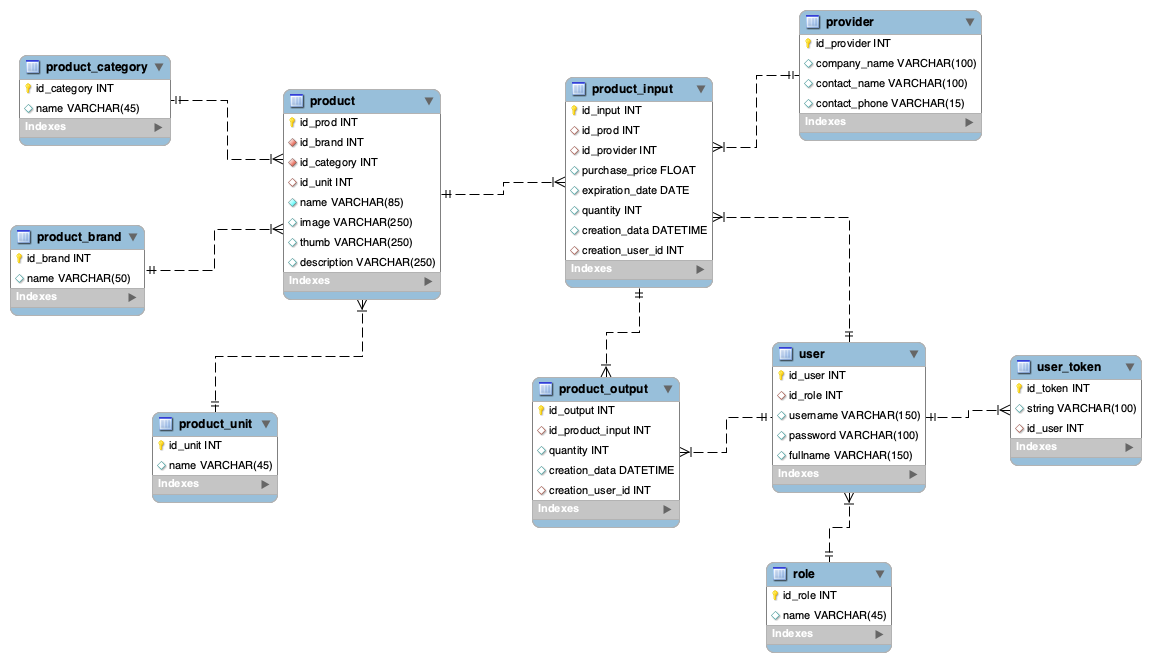
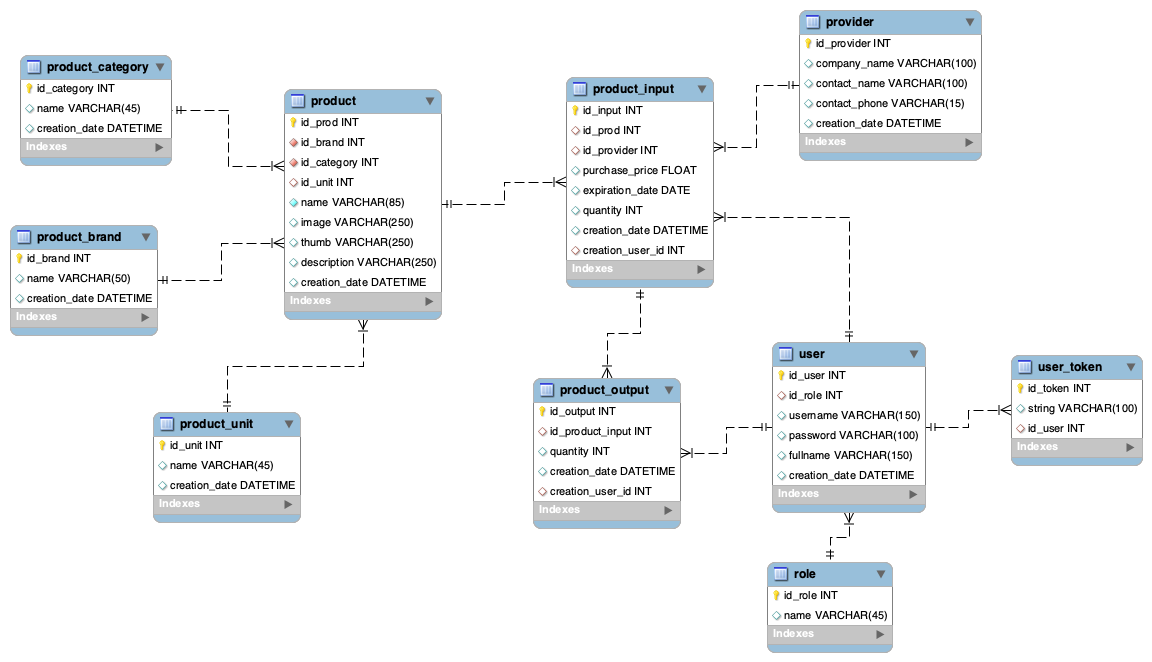
Added creation date field on some tables and models

diff --git a/EasyKardexApi/Sources/App/Models/Product.swift b/EasyKardexApi/Sources/App/Models/Product.swift
@@ -22,6 +22,7 @@ final class Product: Codable {
     var image: String?
     var thumb: String?
     var description: String?
+    var creationDate: Date?
     
     init(id: Int? = nil,
          brandID: ProductBrand.ID,
@@ -30,7 +31,8 @@ final class Product: Codable {
          name: String,
          image: String? = nil,
          thumb: String? = nil,
-         description: String? = nil) {
+         description: String? = nil,
+         creationDate: Date? = nil) {
         self.id = id
         self.brandID = brandID
         self.categoryID = categoryID
@@ -39,6 +41,7 @@ final class Product: Codable {
         self.image = image
         self.thumb = thumb
         self.description = description
+        self.creationDate = creationDate
     }
     
     enum CodingKeys: String, CodingKey {
@@ -50,6 +53,7 @@ final class Product: Codable {
         case image = "image"
         case thumb = "thumb"
         case description = "description"
+        case creationDate = "creation_date"
     }
 }
 

diff --git a/EasyKardexApi/Sources/App/Models/ProductProvider.swift b/EasyKardexApi/Sources/App/Models/ProductProvider.swift
@@ -17,12 +17,14 @@ final class ProductProvider: Codable {
     var companyName: String
     var contactName: String
     var contactPhoneNumber: String
+    var creationDate: Date?
     
-    init(id: Int? = nil, companyName: String, contactName: String, contactPhoneNumber: String) {
+    init(id: Int? = nil, companyName: String, contactName: String, contactPhoneNumber: String, creationDate: Date? = nil) {
         self.id = id
         self.companyName = companyName
         self.contactName = contactName
         self.contactPhoneNumber = contactPhoneNumber
+        self.creationDate = creationDate
     }
     
     enum CodingKeys: String, CodingKey {
@@ -30,6 +32,7 @@ final class ProductProvider: Codable {
         case companyName = "company_name"
         case contactName = "contact_name"
         case contactPhoneNumber = "contact_phone"
+        case creationDate = "creation_date"
     }
 }
 

diff --git a/EasyKardexApi/Sources/App/configure.swift b/EasyKardexApi/Sources/App/configure.swift
@@ -21,15 +21,15 @@ public func configure(_ config: inout Config, _ env: inout Environment, _ servic
     
     var contentConfig = ContentConfig.default()
     let jsonDecoder = JSONDecoder()
-    //let jsonEncoder = JSONEncoder()
-    //jsonEncoder.dateEncodingStrategy = .formatted(.normalDate)
+    let jsonEncoder = JSONEncoder()
+    jsonEncoder.dateEncodingStrategy = .formatted(.datetime)
 
     jsonDecoder.dateDecodingStrategyFormatters = [ DateFormatter.iso8601,
                                             DateFormatter.datetime,
                                             DateFormatter.normalDate ]
     
     contentConfig.use(decoder: jsonDecoder, for: .json)
-    //contentConfig.use(encoder: jsonEncoder, for: .json)
+    contentConfig.use(encoder: jsonEncoder, for: .json)
     services.register(contentConfig)
     
     let fluentProvider = FluentMySQLProvider()

diff --git a/EasyKardexApi/Sources/App/Models/User.swift b/EasyKardexApi/Sources/App/Models/User.swift
@@ -16,13 +16,15 @@ final class User: Codable {
     var password: String
     var fullname: String?
     var roleID: Role.ID?
+    var creationDate: Date?
 
-    init(id: Int? = nil, username: String, password: String, fullname: String? = nil, roleID: Role.ID? = nil) {
+    init(id: Int? = nil, username: String, password: String, fullname: String? = nil, roleID: Role.ID? = nil, creationDate: Date? = nil) {
         self.id = id
         self.username = username
         self.password = password
         self.fullname = fullname
         self.roleID = roleID
+        self.creationDate = creationDate
     }
 
     enum CodingKeys: String, CodingKey {
@@ -31,6 +33,7 @@ final class User: Codable {
         case password = "password"
         case fullname = "fullname"
         case roleID = "id_role"
+        case creationDate = "creation_date"
     }
 }
 

diff --git a/EasyKardexApi/Sources/App/Models/ProductUnit.swift b/EasyKardexApi/Sources/App/Models/ProductUnit.swift
@@ -15,15 +15,18 @@ final class ProductUnit: Codable {
     
     var id: Int?
     var name: String
+    var creationDate: Date?
     
-    init(id: Int? = nil, name: String) {
+    init(id: Int? = nil, name: String, creationDate: Date? = nil) {
         self.id = id
         self.name = name
+        self.creationDate = creationDate
     }
     
     enum CodingKeys: String, CodingKey {
         case id = "id_unit"
         case name = "name"
+        case creationDate = "creation_date"
     }
 }
 

diff --git a/EasyKardexApi/Sources/App/Models/ProductCategory.swift b/EasyKardexApi/Sources/App/Models/ProductCategory.swift
@@ -12,15 +12,18 @@ final class ProductCategory: Codable {
 
     var id: Int?
     var name: String
+    var creationDate: Date?
 
-    init(id: Int? = nil, name: String) {
+    init(id: Int? = nil, name: String, creationDate: Date? = nil) {
         self.id = id
         self.name = name
+        self.creationDate = creationDate
     }
 
     enum CodingKeys: String, CodingKey {
         case id = "id_category"
         case name = "name"
+        case creationDate = "creation_date"
     }
 }
 

diff --git a/EasyKardexApi/Sources/App/Models/ProductBrand.swift b/EasyKardexApi/Sources/App/Models/ProductBrand.swift
@@ -9,15 +9,18 @@ final class ProductBrand: Codable {
 
     var id: Int?
     var name: String
+    var creationDate: Date?
 
-    init(id: Int? = nil, name: String) {
+    init(id: Int? = nil, name: String, creationDate: Date? = nil) {
         self.id = id
         self.name = name
+        self.creationDate = creationDate
     }
 
     enum CodingKeys: String, CodingKey {
         case id = "id_brand"
         case name = "name"
+        case creationDate = "creation_date"
     }
 }
 

diff --git a/EasyKardexApi/Sources/App/Models/ProductInput.swift b/EasyKardexApi/Sources/App/Models/ProductInput.swift
@@ -29,7 +29,7 @@ struct ProductInput: Codable {
         case purchasePrice = "purchase_price"
         case expirationDate = "expiration_date"
         case quantity = "quantity"
-        case creationDate = "creation_data"
+        case creationDate = "creation_date"
         case creatorID = "creation_user_id"
     }
 }

diff --git a/EasyKardexApi/Sources/App/Models/ProductOutput.swift b/EasyKardexApi/Sources/App/Models/ProductOutput.swift
@@ -35,7 +35,7 @@ struct ProductOutput: Codable {
         case id = "id_output"
         case prodInputID = "id_product_input"
         case quantity = "quantity"
-        case creationDate = "creation_data"
+        case creationDate = "creation_date"
         case creatorID = "creation_user_id"
     }
 }
